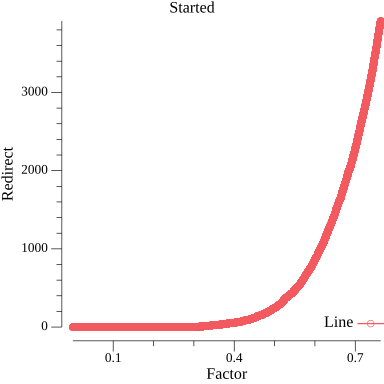
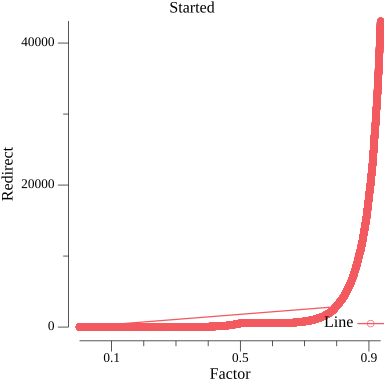
add: 将数据写入到文件

diff --git a/cuckoofilter_test.go b/cuckoofilter_test.go
@@ -3,11 +3,13 @@ package cuckoo
 import (
 	"bufio"
 	"crypto/rand"
+	"encoding/csv"
 	"fmt"
 	"gonum.org/v1/plot/vg"
 	"io"
 	"os"
 	"reflect"
+	"strconv"
 	"testing"
 	"time"
 
@@ -161,26 +163,43 @@ func BenchmarkFilter_Insert(b *testing.B) {
 	filter := NewFilter(cap)
 
 	//b.ResetTimer()
-	//var redirectList []uint
-	//var factors []float32
+	var redirectList []uint
+	var factors []float32
 	var hash [32]byte
 	start := time.Now().Nanosecond()
 	//var timeList []time.Duration
-	for i := 0; i < b.N; i++ {
-
+	// 在容量是100000的条件下，满桶元素数量为32748*4*0.95=124518
+	// 负载因子为1元素数量为131072
+	for i := 0; i < 124518; i++ {
 		io.ReadFull(rand.Reader, hash[:])
 		filter.InsertUnique(hash[:])
 
 		//timeList = append(timeList, elapsed)
 		//fmt.Println("时延: ", elapsed.Nanoseconds())
-		//redirectList = append(redirectList, redirect)
-		//factors = append(factors, filter.LoadFactor())
+		redirectList = append(redirectList, redirect)
+		factors = append(factors, filter.LoadFactor())
 		fmt.Println("重定位次数: ",redirect)
 		fmt.Println("负载因子: ",filter.LoadFactor())
 	}
+	filename := "data.csv"
+	File,err:=os.OpenFile(filename,os.O_RDWR|os.O_APPEND|os.O_CREATE,0666)
+	if err!=nil{
+		fmt.Println("文件打开失败！")
+	}
+	defer File.Close()
+	writer := csv.NewWriter(File)
+	for i := 0; i < 124518; i++ {
+		insertData := []string{strconv.FormatUint(uint64(redirectList[i]),10),strconv.FormatFloat(float64(factors[i]),'f',10,32)}
+		err = writer.Write(insertData)
+		if err != nil {
+			fmt.Println("写入文件失败")
+		}
+		writer.Flush()
+	}
+
 	elapsed := time.Now().Nanosecond()
 	fmt.Println("time elapse in nano: ", elapsed-start)
-	//CuckooPlot(redirectList,factors,100000)
+	CuckooPlot(redirectList,factors,124518)
 	//CuckooPlot(timeList,factors,100000)
 }
 
